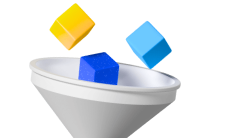
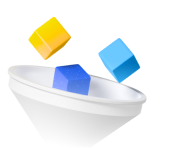
Rediseño del CycleBar. 1. Falta ajustar la imagen del embudo.

diff --git a/src/styles/_cycleBar.scss b/src/styles/_cycleBar.scss
@@ -1,9 +1,5 @@
-//------------------------
-// IMPORTS
-//------------------------
-
 @import './utils/_mixins.scss';
-img {display: block;}
+
 // * { outline: 1px solid red; }
 
 
@@ -22,39 +18,23 @@ $infoBar-text-color: #F5FAFF;
 //------------------------
 
 div.main-container {
-    display: flex;
-    flex-direction: column;
-    gap: 6px;
-}
+    background: #FFFFFF;
+    border-radius: 0.5rem 0.5rem 0 0;
+    padding: 0 20px;
+
+    position: relative;
 
 
-//------------------------
-// INFO-BAR
-//------------------------
+    display: grid;
+    grid-template-columns: 90px 1fr 90px;
+    grid-template-rows: 1fr 12px;
+    grid-template-areas:
+        "tittle tittle tittle"
+        "lineBar lineBar lineBar"
+    ;
 
-.cycle-info-bar {
-    padding: 1rem 1.25rem;
-    background-color: $infoBar-background-color;
-    border-radius: 0 0 0.25rem 0.25rem;
-
-
-    display: flex;
-    flex-direction: row;
-    justify-content: space-between;
-    
     //TODO: BORRAR
-    flex-grow: 1;
-    //width: 700px;
-
-
-    p {
-        @include 
-        text-mixin('Barlow', 0.625rem, 1, var(--barlow-medium),
-        $infoBar-text-color, 0.04em);
-        
-        font-feature-settings: 'tnum' on, 'lnum' on;        
-    }
-    
+    min-height: 116px;
 }
 
 
@@ -64,41 +44,28 @@ div.main-container {
 
 
 .cycle-state-bar {
-    background: linear-gradient(90deg, #0B85FE 0%, #215DEE 50.66%, #1A7DFD 99.26%), #1C7AFC;;
-    border-radius: 0.5rem 0.5rem 0 0;
-    box-shadow: inset 1px 1px 12px #9CC6FC;
-    opacity: 0.9;
+    
+    grid-area: tittle;
 
     display: flex;
-    justify-content: center;
     align-items: center;
-    position: relative;
-
+    justify-content: center;
 
     
-    // TODO: BORRAR
-    min-height: 132px;
-    // width: 700px;
-
-    div {
-        display: flex;
-        align-items: center;
-
-        & > img {
-            margin-right: 12px;
+        & > .icon {
+            margin-right: 8px;
         }
         
         p {
-            @include text-mixin('Barlow', 1.25rem, 1, var(--barlow-medium),
-            #DBEEFF, 0.04em);
-            margin-right: 0.25rem;
+            @include text-mixin('Barlow', 16px, 1, var(--barlow-medium),
+            #586B9D, 0.04em);
+            margin-right: 4px;
         }
     
         h4 {
-            @include text-mixin('Barlow', 1.625rem, 1, var(--barlow-bold),
-            #F5FAFF, 0.04em);
+            @include text-mixin('Barlow', 24px, 1, var(--barlow-bold),
+            #586B9D, 0.04em);
         }
-    }
 
 }
 
@@ -107,14 +74,20 @@ div.main-container {
 // BUTTONS
 //------------------------
 
-section {
+.buttons-container {
+    grid-column: 3 / 4;
+    grid-row: 1 / span 1;
+
     display: flex;
-    position: absolute;
-    right: 1.25rem;
+    align-items: center;
+    justify-content: flex-end;
+
 
     img {
-        margin: 0;
+        width: 42px;
+        aspect-ratio: 1/1;
         opacity: 0.6;
+
         transition: all 0.2s  ease-in;
     }
 

diff --git a/src/routes/materias.svelte b/src/routes/materias.svelte
@@ -61,17 +61,20 @@
 
     <div>
         <CycleBar />
-        <article bind:this={domElement} >
-            {#each materiasAct as materia }
-                <Card data={{...materia}} />
-            {:else}
-                <p>No hay data aún</p>
-            {/each}
-        </article>
-        <button
+        <nav>
+            <article bind:this={domElement} >
+                {#each materiasAct as materia }
+                    <Card data={{...materia}} />
+                {:else}
+                    <p>No hay data aún</p>
+                {/each}
+            </article>
+        </nav>
+
+        <!-- <button
             on:click={() => $isPopUpActive = true}
             >Añadir Materia
-        </button>
+        </button> -->
     </div>
 
 
@@ -102,34 +105,43 @@
     }
 
     article {
-        margin-top: 20px;
         min-height: 476px;
+        background-color: #F6F6F6;
+        padding: 20px 16px;
+        border-radius: 8px;
 
         display: grid;
         grid-template-columns: repeat(auto-fill, minmax(180px, 1fr));
-        grid-auto-rows: 230px;
-        gap: 1rem;
+        // grid-template-columns: repeat(auto-fill, minmax(180px, 200px));
+        grid-auto-rows: 204px;
+        gap: 12px;
         // outline: 1px solid red;
     }
     main {
-        padding-left: 140px;
+        padding-left: 102px;
         padding-right: 54px;
-        padding-top: 32px;
+        padding-top: 28px;
         min-height: 100vh;
-        background: linear-gradient(233.25deg, #E3EBFC 0%, #FFFFFF 48.63%);
+        background: #F5F5F5;
         // background: linear-gradient(228.58deg, #E3EBFC 0%, #FFFFFF 62.57%);
 
         display: grid;
         grid-template-columns: minmax(460px, 900px) minmax(360px, 500px);
-        grid-template-rows: auto auto;
+        grid-template-rows: 62px auto;
         grid-template-areas: 
             "toolbar toolbar"
             "materias metrics"
         ;
 
-        row-gap: 72px;
-        column-gap: 92px;
+        row-gap: 48px;
+        column-gap: 80px;
         // outline: 1px solid red;
+    }
+
+    nav {
+        background: #FFFFFF;
+        border-radius: 0px 0px 8px 8px;
+        padding: 20px 12px;
     }
 
 </style>

diff --git a/src/components/CycleBar.svelte b/src/components/CycleBar.svelte
@@ -1,15 +1,7 @@
 <script>
-    // your script goes here
+    import CycleChart from './cycleChart.svelte';
     import { cicloActualEnTexto } from '../stores/cycle_store';
     import { changeCycle } from '../algoritmos/changeCycle';
-
-
-    let data = {
-        carrera: 'c. de la Comunicación',
-        pensum: '2018 - 2021',
-    };
-
-    let { carrera, pensum } = data;
 
 </script>
 
@@ -19,38 +11,30 @@
 
     <!-- CYCLE-STATE-BAR -->
 
-    <div 
-        class="cycle-state-bar" 
+    <div class="cycle-state-bar" 
         on:wheel|preventDefault={(e) => changeCycle(e)}
         >
-        <img class="luckImage" src="/images/embud.png" alt="">
-        <div>
-            <img src="/icons/cloud-sync.svg" alt="">
+            <img class="icon" src="/icons/cloud-sync.svg" alt="">
             <p>CICLO /</p>
             <h4>{ $cicloActualEnTexto.toUpperCase() }</h4>
-        </div>
-
-        <section>
-            <img 
-                src="/icons/arrow-circle.svg" 
-                alt="" 
-                on:click={(e) => changeCycle(e, -1)} 
-                >
-            <img 
-                src="/icons/arrow-circle.svg" 
-                alt="" 
-                on:click={(e) => changeCycle(e, 1)} 
-                >
-        </section>
     </div>
 
-    
-    <!-- INFO-BAR -->
+    <section class="buttons-container">
+        <img 
+            src="/icons/arrow-circle.svg" 
+            alt="" 
+            on:click={(e) => changeCycle(e, -1)} 
+            >
+        <img 
+            src="/icons/arrow-circle.svg" 
+            alt="" 
+            on:click={(e) => changeCycle(e, 1)} 
+            >
+    </section>
 
-    <div class="cycle-info-bar">
-        <p>{carrera.toUpperCase()}</p>
-        <p>PENSUM {pensum}</p>
-    </div>
+    <CycleChart />
+
+    <img class="luckImage" src="/images/embud.png" alt="">
 
 </div>
 

diff --git a/static/global.css b/static/global.css
@@ -1,6 +1,6 @@
 
 
-@import url('https://fonts.googleapis.com/css2?family=Barlow:wght@500;600;700&family=Inter:wght@500;600&display=swap');
+@import url('https://fonts.googleapis.com/css2?family=Barlow:wght@500;600;700&family=Inter:wght@400;500;600;700&display=swap');
 
 
 :root {
@@ -8,8 +8,10 @@
     --barlow-semibold: 600;
     --barlow-bold: 700;
 
+    --inter-regular: 400;
     --inter-medium: 500;
     --inter-semibold: 600;
+    --inter-bold: 700;
     --opacity-card: 1;
 }
 
